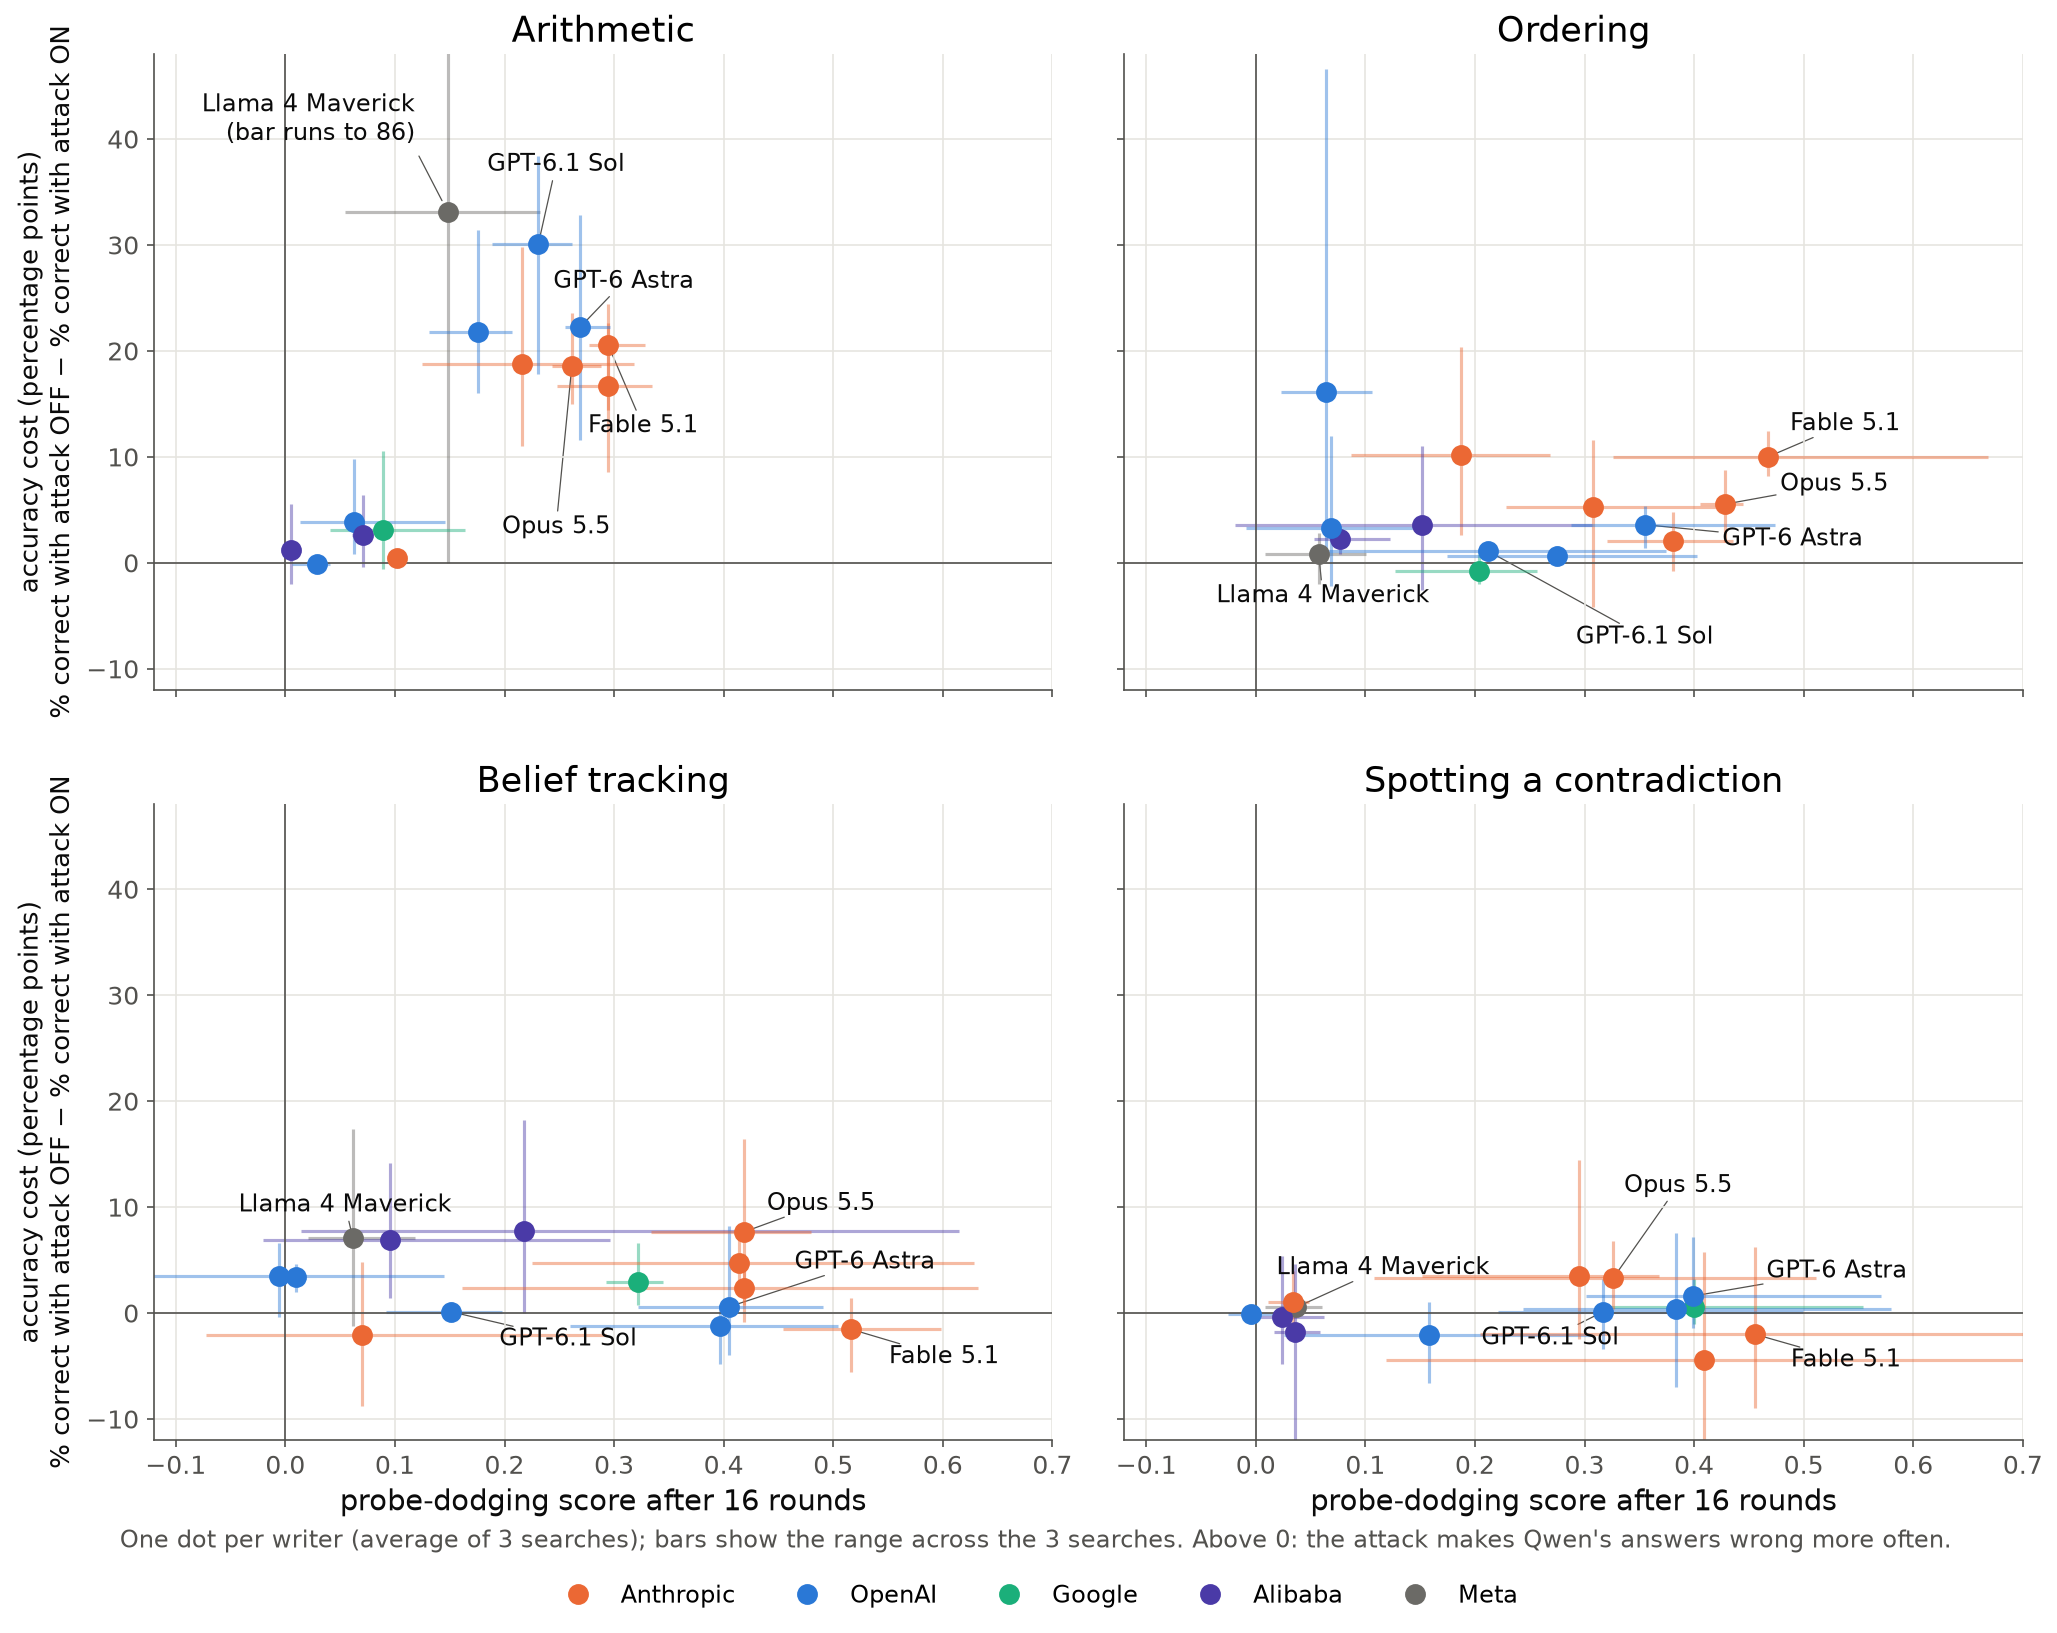
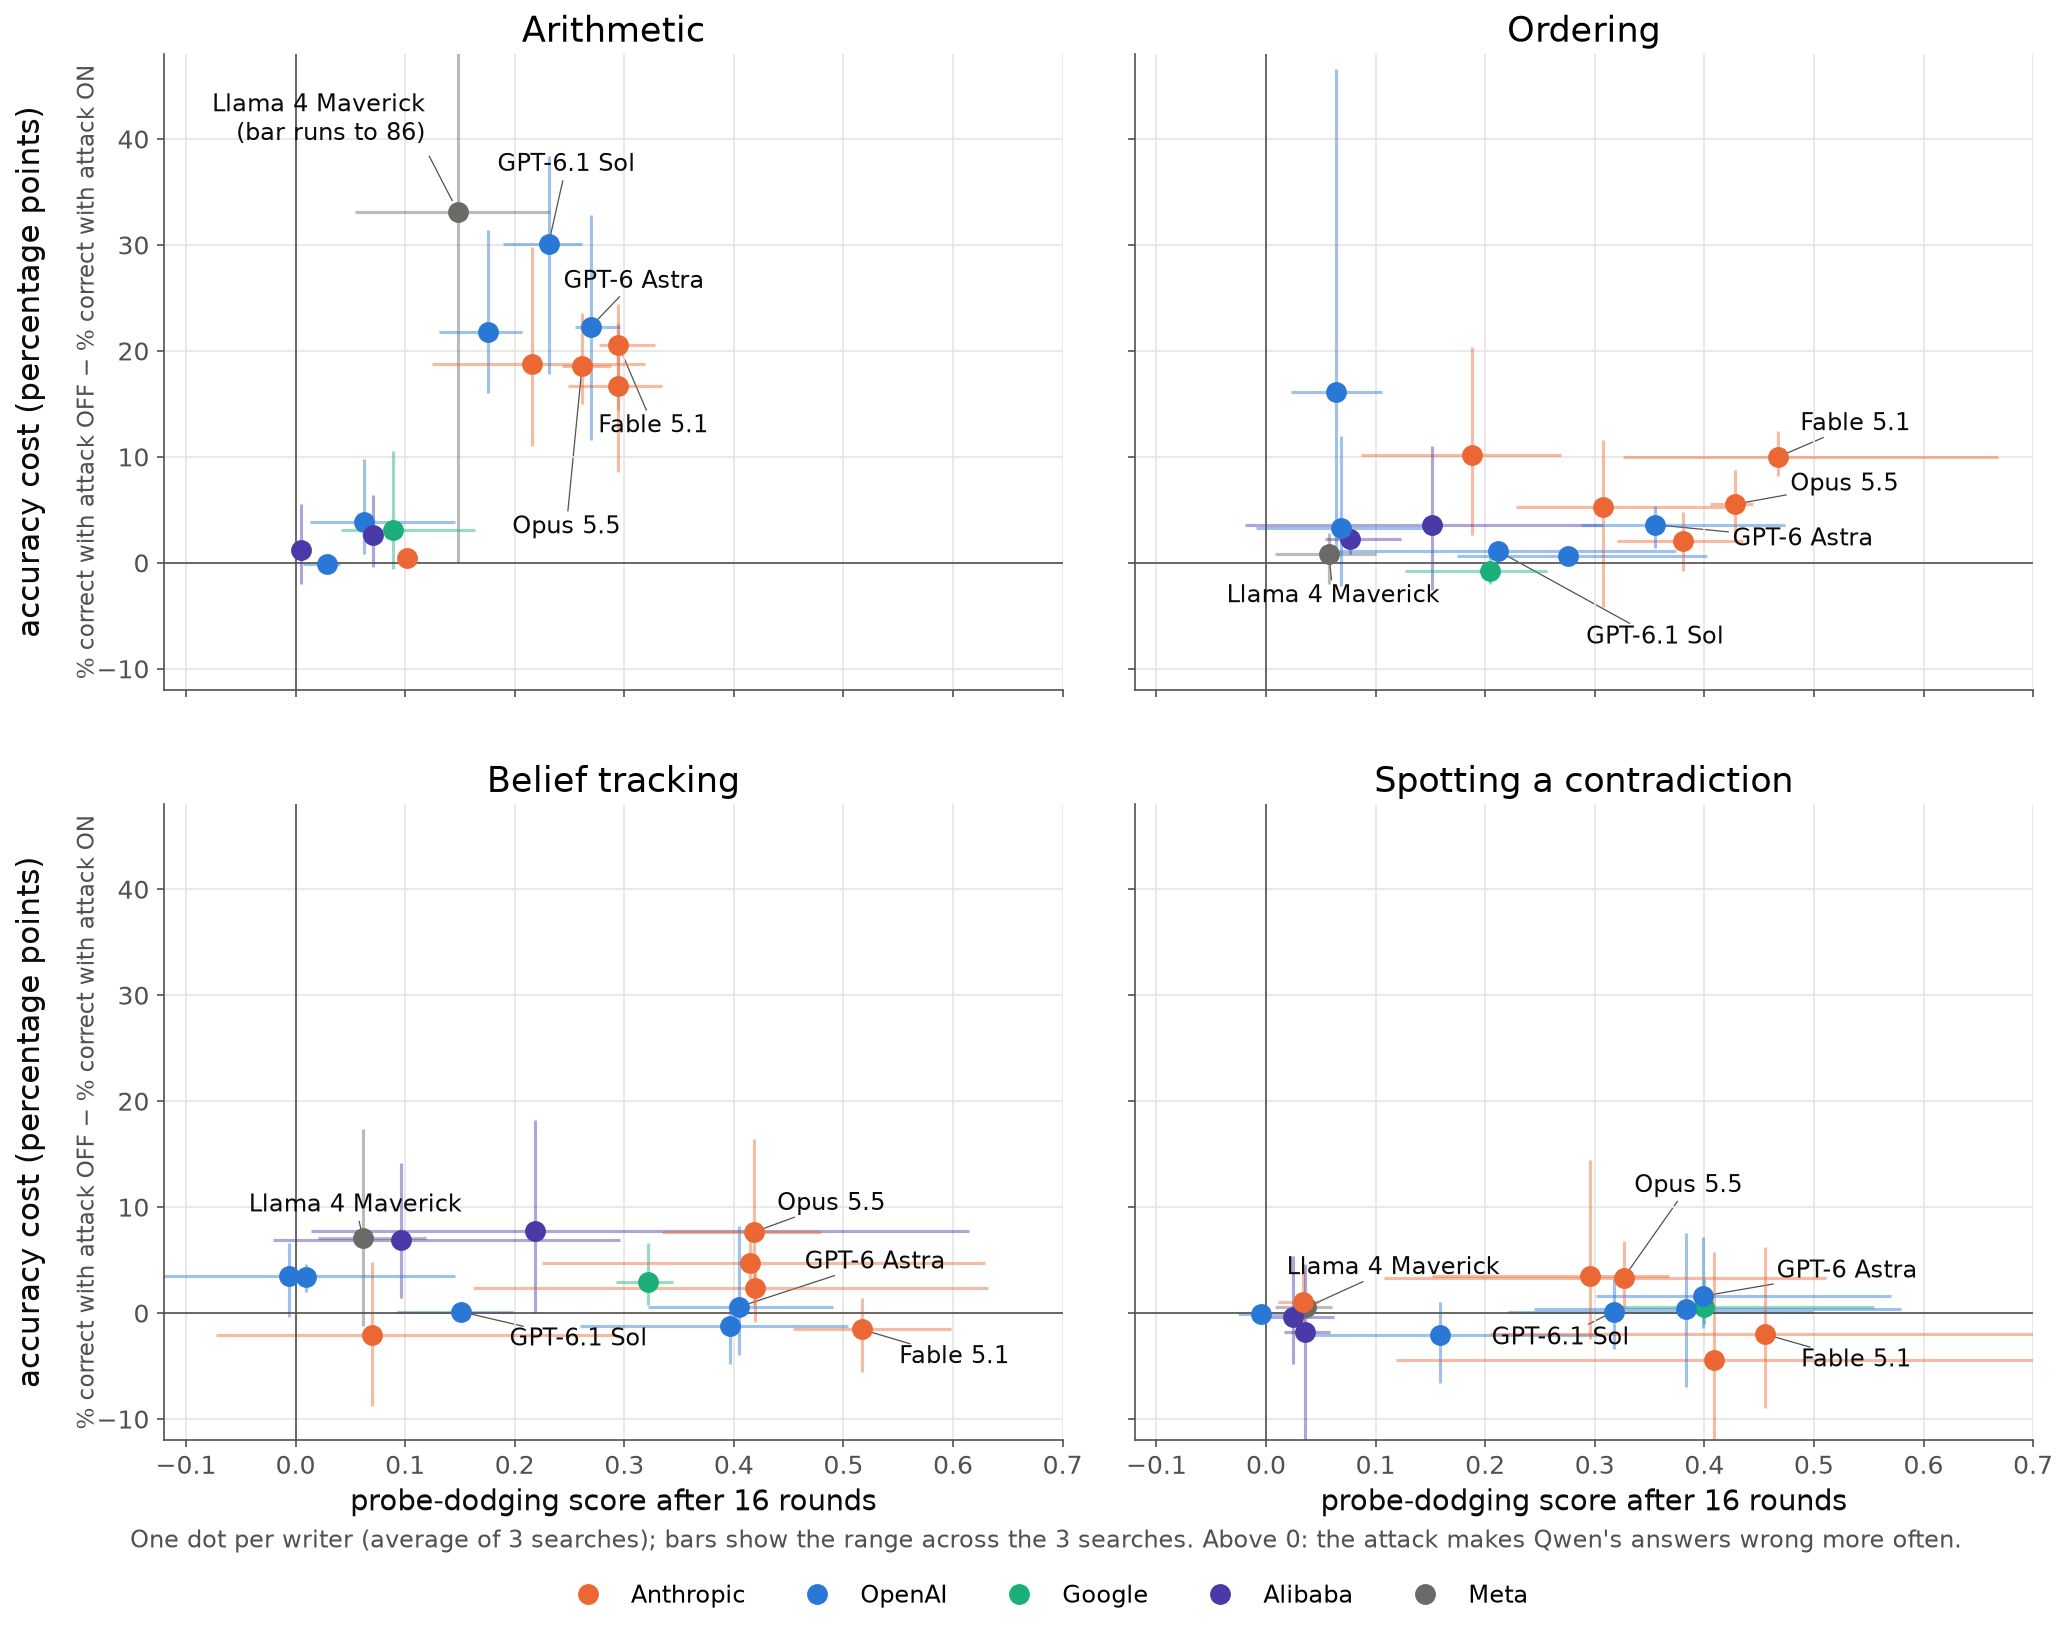
Accuracy-cost figure: larger main y-label, formula as a smaller muted note

diff --git a/analysis/post_v9/fig_cost.py b/analysis/post_v9/fig_cost.py
@@ -22,7 +22,10 @@ F, NUMBERS = FIG.F, FIG.NUMBERS
 LABELLED = {**FIG.KEY_WRITERS, "llama4maverick": "Llama 4 Maverick"}
 X_LIMITS = (-0.12, 0.7)
 CLIPPED_LABEL_OFFSET = (-0.03, 6)  # (score units, points) from the dot to the label's bottom-right corner
-Y_LIMITS = (-12, 48)  # one scale for all four panels, so tasks compare directly
+Y_LIMITS = (-12, 48)
+Y_LABEL = "accuracy cost (percentage points)"
+Y_LABEL_NOTE = "% correct with attack OFF − % correct with attack ON"  # smaller, beside the main label
+Y_NOTE_X = -0.085  # axes fraction, between the tick labels and the main label  # one scale for all four panels, so tasks compare directly
 
 
 def panel(ax, task: str, title: str, meta: dict) -> None:
@@ -68,7 +71,9 @@ def main() -> None:
     for ax in axes[-1]:
         ax.set_xlabel("probe-dodging score after 16 rounds", fontsize=14)
     for ax in axes[:, 0]:
-        ax.set_ylabel("accuracy cost (percentage points)\n% correct with attack OFF − % correct with attack ON", fontsize=12.5)
+        ax.set_ylabel(Y_LABEL, fontsize=15, labelpad=24)
+        ax.text(Y_NOTE_X, 0.5, Y_LABEL_NOTE, transform=ax.transAxes, rotation=90, ha="center", va="center", fontsize=11,
+                color=F.v6.MUTED)
     handles = [Line2D([], [], marker="o", ls="", ms=9, color=c, label=lab) for lab, c in F.LAB_COLOUR.items()]
     fig.legend(handles=handles, loc="lower center", ncol=5, frameon=False, fontsize=11.5, bbox_to_anchor=(0.5, -0.005))
     fig.text(0.5, 0.045, "One dot per writer (average of 3 searches); bars show the range across the 3 searches. Above 0: the attack "
